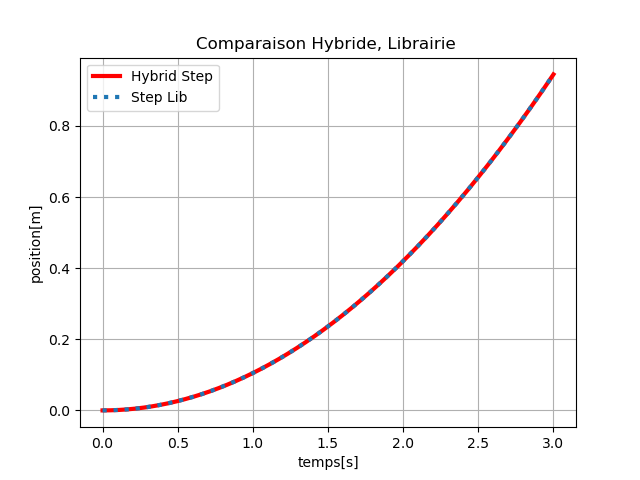
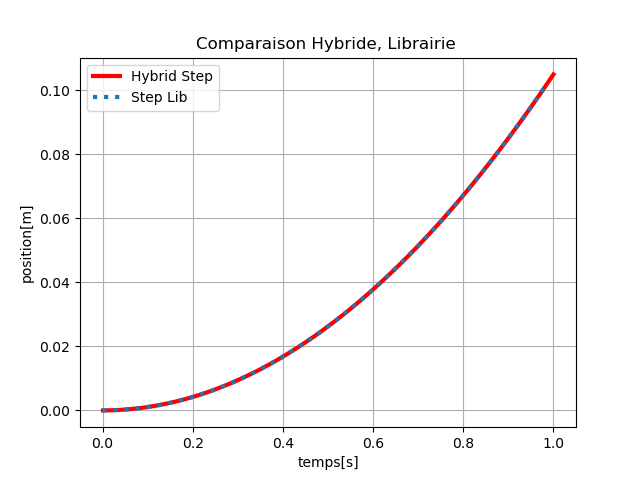
RK4 integration, structural changes and a filter for the PID

diff --git a/Control/DiscretePID.py b/Control/DiscretePID.py
@@ -2,7 +2,7 @@ import numpy as np
 import control as ct
 
 class DiscretePID:
-    def __init__(self,kp,ki,kd,Max_actuation,dt):
+    def __init__(self,kp,ki,kd,Max_actuation,dt,text_option:str="filtered"):
         self.kp=kp
         self.ki=ki
         self.kd=kd
@@ -11,8 +11,11 @@ class DiscretePID:
         self.dt=dt
         self.Max_actuation=Max_actuation
 
-        self.PID_TF_dis,self.PID_num,self.PID_den=self.As_TransferFunction()
+        self.PID_TF_dis=self.As_TransferFunction(text_option)
+        self.PID_num=np.asarray(self.PID_TF_dis.num_list[0][0])
+        self.PID_den=np.asarray(self.PID_TF_dis.den_list[0][0])
         self.PID_TF_cont=ct.tf([kp**2,kp,ki],[1,0])
+        
         self.e_hist = np.zeros(len(self.PID_num))
         self.u_hist = np.zeros(len(self.PID_den)-1)
         return
@@ -24,36 +27,21 @@ class DiscretePID:
         self.u_hist = np.zeros(len(self.PID_den)-1)
         return
 
-    def compute(self,y):
-        #error 
-        error=self.reference-y.item()
-
-        self.e_hist[1:] = self.e_hist[:-1]
-        # all my elements exept the first one<= all my elements exept the last one 
-        self.e_hist[0] = float(error)
-        #strore first element
-        
-        u = np.dot(self.PID_num,self.e_hist)
-        # dot product between the coeficients list and the u hist list 
-        # implements b0u[k]+b1u[k-1].....
-        u-= np.dot(self.PID_den[1:], self.u_hist)
-        # dot product between the coeficients list and the u hist list 
-        # implements a1y[k-1]+b2u[k-2].....
-
-        u /= self.PID_den[0] # divide by a0 to get y[k]
-
-        if len(self.u_hist) > 0:
-            self.u_hist[1:] = self.u_hist[:-1]
-            self.u_hist[0] = u
-
-        
-        #all my elements exept the first one<= all my elements exept the last one 
-        #strore first element
-        return np.array([[u]])
+  
     
-    def As_TransferFunction(self):
-        b0=self.kp+self.ki*self.dt+self.kd/self.dt
-        b1=-self.kp-(2*self.kd/self.dt)
-        b2=self.kd/self.dt
-        PID=ct.TransferFunction([b0,b1,b2],[1,-1],self.dt)
-        return PID,[b0,b1,b2],[1,-1]
+    def As_TransferFunction(self,text_option:str):
+        
+        if text_option=="filtered" :
+            N=50
+            P=ct.TransferFunction([self.kp],[1],self.dt)
+            I=ct.TransferFunction([self.ki*self.dt],[1,-1],self.dt)
+            D=ct.TransferFunction([self.kd*N,-self.kd*N],[N*self.dt+1,-1],self.dt)
+            PID=P+I+D
+            return PID
+           
+        else:
+            b0=self.kp+self.ki*self.dt+self.kd/self.dt
+            b1=-self.kp-(2*self.kd/self.dt)
+            b2=self.kd/self.dt
+            PID=ct.TransferFunction([b0,b1,b2],[1,-1],self.dt)
+            return PID

diff --git a/Simulation/simulation.py b/Simulation/simulation.py
@@ -86,9 +86,9 @@ class TFSimulator:
 
         return y
 class HybridControlLoop:
-    def __init__(self,StateSpaceModel:StateSpaceModel,controller,config_file):
+    def __init__(self,StateSpaceModel:StateSpaceModel,controller ,config_file):
         ## for continuous integration
-        self.dt_plant=1e-5
+        self.dt_plant=1e-3
         ## state space models
         self.A=StateSpaceModel.A.astype(float)
         self.B=StateSpaceModel.B.astype(float)
@@ -97,6 +97,7 @@ class HybridControlLoop:
         self.config_file=config_file
         ##
         self.controller=controller
+        self.controller_sim=TFSimulator(self.controller.PID_TF_dis,0)
         return
     def run_continuous_control_loop(self,X_0,Logger:SimLog)->SimLog:
         N_substep=int(self.config_file.dt/self.dt_plant) ## number of substeps between each controller update
@@ -107,17 +108,14 @@ class HybridControlLoop:
         u = np.array([[0.0]], dtype=float) #initial control input
     
         while t<self.config_file.T:
-            y=self.C @ X
-            u=self.controller.compute(y)
+            y_k=self.C @ X
+            u_k=np.array([[self.controller_sim.step(self.controller.reference-y_k)]])
             
             for i in range (N_substep):
-                x_dot=self.A @ X + self.B @ u
-                ## simple forward euler 
-                X+= self.dt_plant*x_dot
-                y=self.C @ X
+                X=self.rk4_step(X,u_k)
                 ## update time 
                 t+=self.dt_plant
-                Logger.log(t,y,u)
+                Logger.log(t,X[0][0],u)
             if t >= self.config_file.T:
                 break
                 
@@ -153,18 +151,22 @@ class HybridControlLoop:
         u = np.array([[1.0]], dtype=float) #initial control input
     
         while t<self.config_file.T:
-            
-            x_dot=self.A @ X + self.B @ u
-            ## simple forward euler 
-            X+= self.dt_plant*x_dot
-            y=self.C @ X
+            X=self.rk4_step(X,u)
             ## update time 
             t+=self.dt_plant
-            Logger.log(t,y,u)
+            Logger.log(t,X[0][0],u)
             if t >= self.config_file.T:
                  break
                 
         return Logger
-
+    def rk4_step(self,X,u_k):
         
+        def function(X):
+            return self.A @ X + self.B @ u_k 
+        k1=function(X)
+        k2=function(X+self.dt_plant*0.5*k1)
+        k3=function(X+0.5*self.dt_plant*k2)
+        k4=function(X+self.dt_plant*k3)
+        
+        return X +self.dt_plant/6*(k1+2*k2+2*k3+k4)
         
